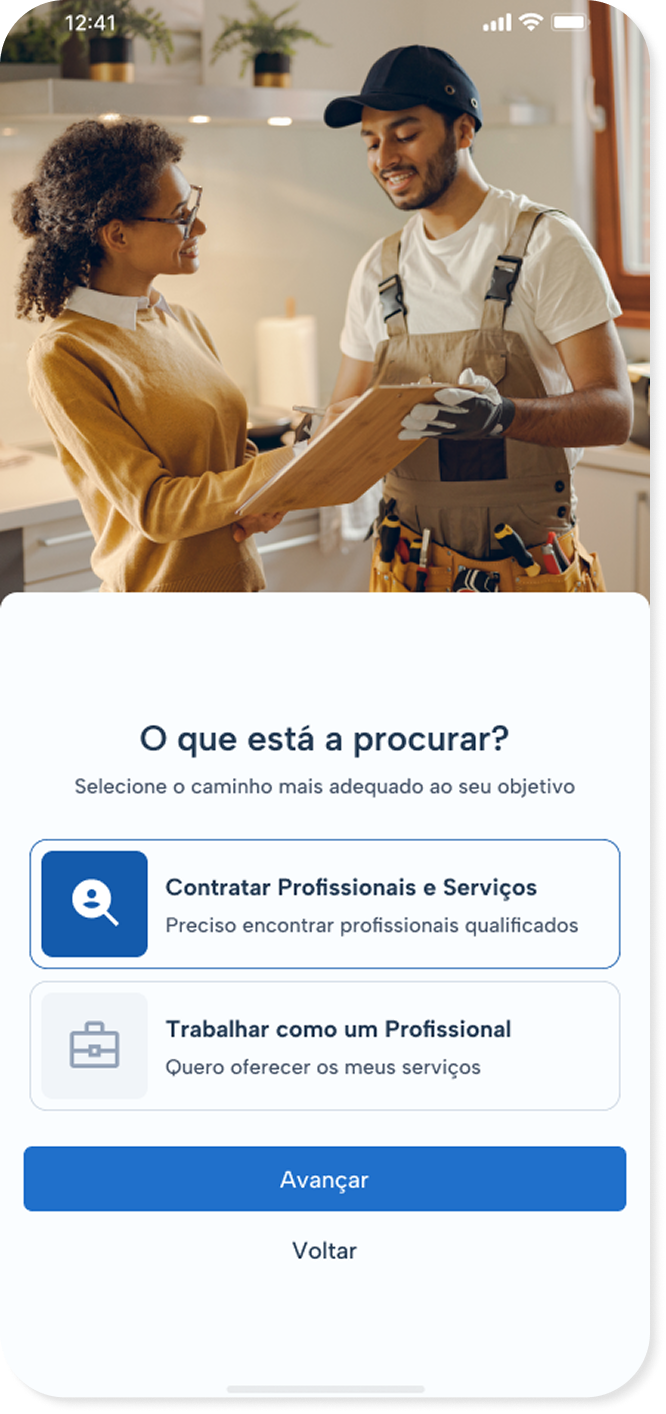
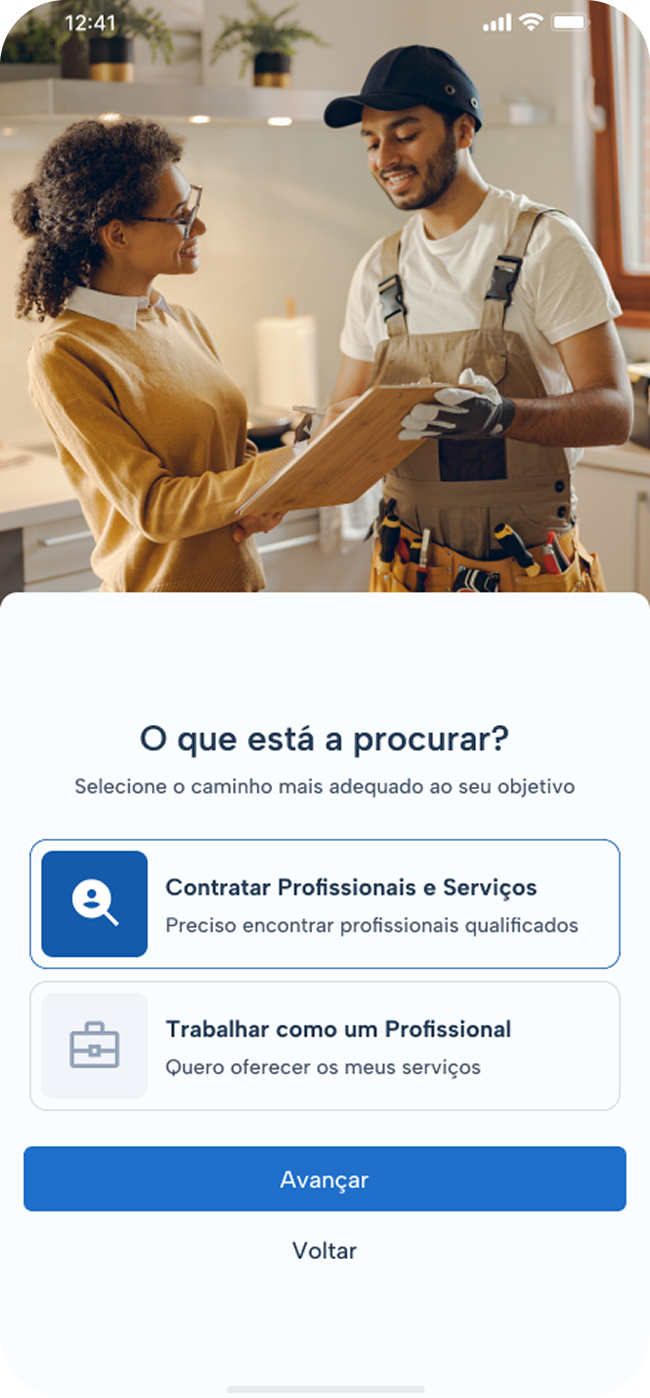
att Chris project

diff --git a/client/pages/projects/FalaComAChris.tsx b/client/pages/projects/FalaComAChris.tsx
@@ -12,13 +12,14 @@ export default function FalaComAChris() {
         <div>
           <h3 className="ttext-xs uppercase pb-4 tracking-widest text-[#3b82f6]">O Desafio</h3>
           <p className="text-white/70 leading-relaxed">
-            Criar uma plataforma MVP que conecte contratantes e profissionais qualificados na região de Grande Lisboa, focada em agilidade e confiança.
+            Criar uma Aplicativo MVP que conecte contratantes e profissionais qualificados na região de Portugal, focada em agilidade e confiança.
           </p>
         </div>
+
         <div>
           <h3 className="text-xs uppercase pb-4 tracking-widest text-[#3b82f6]">O Resultado</h3>
           <p className="text-white/70 leading-relaxed">
-            Um aplicativo com interfaces intuitivas, com fluxo de usuário otimizado, com identidade visual competitiva e landing page de captação de leads.
+            Um aplicativo com interfaces intuitivas, com fluxo de usuário otimizado, com identidade visual competitiva e landing page pronta para captação de leads.
           </p>
         </div>
       </div>
@@ -26,58 +27,48 @@ export default function FalaComAChris() {
       <section id="projectImages" className="project-images mt-12">
         <div className="overflow-hidden shadow-2xl">
 
-          <div className="flex flex-col md:flex-row gap-y-8 rounded-3xl bg-[#2170CC]  pb-12 p-8">
-            <img src="/portfolio/ptchris/Screen1.png" alt="KODIE Academy" className="w-full h-auto max-h-auto md:max-h-[800px] object-contain" />
-            <img src="/portfolio/ptchris/Screen2.png" alt="KODIE Academy" className="w-full h-auto max-h-auto md:max-h-[800px] object-contain" />
-            <img src="/portfolio/ptchris/Screen3.png" alt="KODIE Academy" className="w-full h-auto max-h-auto md:max-h-[800px] object-contain" />
+          <img src="/portfolio/ptchris/BannerChris.jpg" alt="Chris website" className="w-full h-auto" />
+
+          <div className="flex flex-col gap-4 items-center justify-center w-full px-12 py-24 bg-white">
+            <img src="/portfolio/ptchris/Chris_BrandDesign.svg" alt="" className="w-50% h-auto" />
+            {/* <div className="grid grid-cols-2 pt-12 gap-x-4 gap-y-4">
+              <img src="/portfolio/ptchris/Restauracao.png" alt="KODIE Academy" className="w-full h-auto" />
+              <img src="/portfolio/ptchris/Limpeza.png" alt="KODIE Academy" className="w-full h-auto" />
+            </div> */}
+            {/* <p className="!pb-0 text-center text-gray-400 w-full">Ensaios Fotográficos com NanoBanana</p>
+            <img src="/portfolio/ptchris/AppStore.jpg" alt="" className="w-[80%] h-auto" /> */}
           </div>
 
-          <div className="flex flex-col md:flex-wrap pt-12 md:flex-row gap-x-4 gap-y-4">
-            <p className="!pb-0 text-center text-gray-400 w-full">Fotografias geradas com NanoBanana</p>
-            <img src="/portfolio/ptchris/Restauracao.png" alt="KODIE Academy" className="w-full md:w-[49%] h-auto" />
-            <img src="/portfolio/ptchris/Limpeza.png" alt="KODIE Academy" className="w-full md:w-[49%] h-auto" />
-          </div>
-
-          <h4 className="mt-14 text-center">Logo design</h4>
-          <div className="ChrisAppIcon rounded-3xl relative w-full bg-[#2070CC] flex flex-wrap items-center justify-center ">
-            <img src="/portfolio/ptchris/AppIcon.svg" alt="KODIE Studio" className="w-64 h-auto object-contain" />
-            {/* <p className="pt-2 text-gray-400 w-full text-center !pb-0">App & Play Store icon</p> */}
-            {/* <img src="/portfolio/ptchris/logoChris-1.png" alt="KODIE Studio" className="w-64 h-auto object-contain !rounded-none" /> */}
-          </div>
-
-          <h4 className="text-center !pt-12">Guia de Estilo</h4>
-          <div className="flex flex-wrap content-center justify-center gap-2 pt-4 px-4 pb-8 p-4 bg-white rounded-3xl">
-            <h5 className="w-full pb-2 text-center font-light text-gray-400">Paleta de Cores</h5>
-            <div className="flex justify-center gap-2">
-              <div className="bg-[#2070CC] text-white h-20 rounded-xl w-40 md:w-48 flex items-center justify-center">#2070CC</div>
-              <div className="bg-[#145BAC] text-white h-20 rounded-xl w-40 md:w-48 flex items-center justify-center">#145BAC</div>
+          <div className="bg-[#2170CC] p-8 w-full grid grid-cols-1">
+            <div className="flex flex-col md:flex-row items-center pb-12 p-0 md:p-4 gap-4 md:gap-0 md:p-8">
+              <img src="/portfolio/ptchris/Screen1.png" alt="KODIE Academy" className="h-auto !rounded-3xl max-h-auto md:max-h-[650px] object-contain shadow-xl z-index-10" />
+                            <img src="/portfolio/ptchris/1Cadastro.svg" alt="KODIE Academy" 
+                            className="bg-white md:!rounded-none px-1 md:px-24 py-4 w-full h-auto max-h-auto md:max-h-[590px] object-contain z-index-10" />
+              <img src="/portfolio/ptchris/Screen2.png" alt="KODIE Academy" className="h-auto !rounded-3xl max-h-auto md:max-h-[650px] object-contain shadow-xl z-index-10" />
             </div>
-            <div className="flex justify-center gap-2">
-              <div className="bg-[#243B54] text-white h-20 rounded-xl w-40 md:w-48 flex items-center justify-center">#243B54</div>
-              <div className="bg-[#94A3B8] text-white h-20 rounded-xl w-40 md:w-48 flex items-center justify-center">#94A3B8</div>
+
+            <div className="flex flex-col md:flex-row items-center gap-y-8 rounded-3xl bg-[#2170CC] pb-12 md:p-8">
+              <img src="/portfolio/ptchris/Screen3.png" alt="KODIE Academy" className="h-auto max-h-auto !rounded-3xl md:max-h-[650px] object-contain shadow-xl" />
+              <img src="/portfolio/ptchris/2Contratacao.svg" alt="KODIE Academy" className="bg-white p-24 w-full !rounded-none h-auto max-h-auto md:max-h-[580px] object-contain" />
+              <img src="/portfolio/ptchris/Screen3.png" alt="KODIE Academy" className="h-auto max-h-auto !rounded-3xl md:max-h-[650px] object-contain shadow-xl" />
+
             </div>
-            <div className="flex flex-col w-full md:flex-row justify-center gap-8 mt-4">
-              <div className="w-full max-w-[410px]">
-                <h5 className="font-light mb-2 text-gray-400 text-center">Inputs</h5>
-                <input
-                  type="text"
-                  placeholder="Insira um texto"
-                  className="bg-[#fafafa] border border-[#94A3B8] text-black p-4 rounded-xl w-full
-                  outline-none focus:border-[#2070CC] focus:ring-1 focus:ring-[#2070CC]"
-                />
-              </div>
-              <div className="">
-                <h5 className="font-light mb-2 text-gray-400 text-center">Botões</h5>
-                <div className="flex flex-col md:flex-row gap-2 justify-center">
-                  <button className="whitespace-nowrap bg-[#2070CC] text-white px-6 py-4 rounded-lg hover:bg-[#145BAC] transition-colors duration-300">Botão Primário</button>
-                  <button className="whitespace-nowrap bg-none border border-[#2070CC] text-[#243B54] px-6 py-4 rounded-lg hover:bg-blue-50 transition-colors duration-300">Botão Secundário</button>
-                </div>
-              </div>
+
+            <div className="flex flex-col md:flex-row gap-4 rounded-3xl bg-[#2170CC] pb-12 md:p-8">
+              <img src="/portfolio/ptchris/Resumo.png" alt="KODIE Academy" className="w-full h-auto max-h-auto md:max-h-[650px] object-contain" />
+              <img src="/portfolio/ptchris/Screen4.png" alt="KODIE Academy" className="w-full h-auto max-h-auto md:max-h-[650px] object-contain" />
+              <img src="/portfolio/ptchris/Screen5.png" alt="KODIE Academy" className="w-full h-auto max-h-auto md:max-h-[650px] object-contain" />
+              <img src="/portfolio/ptchris/Screen6.png" alt="KODIE Academy" className="w-full h-auto max-h-auto md:max-h-[650px] object-contain" />
             </div>
+
+            <div className="flex flex-col md:flex-row items-center justify-center w-full gap-y-4 md:p-8">
+              <img src="/portfolio/ptchris/3Atendimento.svg" alt="KODIE Academy" className="md:block hidden bg-white p-2 md:p-24 w-full h-auto max-h-auto md:max-h-[500px] object-contain" />
+              <img src="/portfolio/ptchris/Screen7.png" alt="KODIE Academy" 
+              className="md:relative top-0 right-20 h-auto max-h-auto md:max-h-[650px] object-contain shadow-xl" />
+            </div>
+
           </div>
 
-          {/* <h4 className="mt-14 text-center">Como funciona o App</h4>
-          <UserFlow /> */}
         </div>
       </section>
 

diff --git a/client/pages/projects/KodieAcademy.tsx b/client/pages/projects/KodieAcademy.tsx
@@ -11,14 +11,12 @@ export default function KodieAcademy() {
         <div>
           <h3 className="text-xs uppercase pb-4 tracking-widest text-[#ff5c35]">O Desafio</h3>
           <p className="text-white/70 leading-relaxed">
-            Desenvolver uma campanha de lançamento da nova marca e comunicar o seu novo modelo de negócio ao mercado de educação e tecnologia latino-americano.
-          </p>
+Desenvolver uma campanha de lançamento da nova marca ecomunicar o seu novo modelo de negócio ao mercado de educaçãoe tecnologia latino-americano.          </p>
         </div>
         <div>
           <h3 className="text-xs uppercase pb-4 tracking-widest text-[#ff5c35]">O Resultado</h3>
           <p className="text-white/70 leading-relaxed">
-            Uma marca que se comunica com autoridade, landing page convertendo e materiais visuais que comunicam juventude com solidez e confiança.
-          </p>
+Uma marca que se comunica com autoridade, landing pageconvertendo e materiais visuais que comunicam juventudecom solidez e confiança.          </p>
         </div>
       </div>
 
@@ -57,10 +55,10 @@ export default function KodieAcademy() {
             <img src="/portfolio/kodie/Costas_Blusa.jpg" alt="Blusa KODIE" className="mx-auto object-cover" />
           </div>
 
-          <img src="/portfolio/kodie/OnePage_KODIE.png" alt="One page" className="w-full h-auto" />
-
           {/* Landing page ---nao trazer versao mobile */}
           <img src="/portfolio/kodie/LP_KODIE.jpg" alt="KODIE website" className="w-full h-auto" />
+
+          <img src="/portfolio/kodie/OnePage_KODIE.png" alt="One page" className="w-full h-auto" />
 
           {/* LIVE de Lançamento */}
           {/* <h4 className="mt-14">LIVE de Lançamento</h4>

diff --git a/client/pages/projects/Wiligent.tsx b/client/pages/projects/Wiligent.tsx
@@ -12,11 +12,11 @@ export default function Wiligent() {
         <h1 className="text-5xl md:text-6xl font-bold tracking-tight">Wiligent <span className="text-[#35de8a]">Miami</span></h1>
         <div>
           <h3 className="text-xs uppercase pb-4 tracking-widest text-[#35de8a]">O Desafio</h3>
-          <p className="text-white/70 leading-relaxed">Fazer o rebranding completo de um novo negócio em Miami.</p>
+          <p className="text-white/70 leading-relaxed">Fazer o rebranding completo de um negócio contábil em Miami, além de tornar a marca moderna e atrativa para o seu público alvo.</p>
         </div>
         <div>
           <h3 className="text-xs uppercase pb-4 tracking-widest text-[#35de8a]">O Resultado</h3>
-          <p className="text-white/70 leading-relaxed">Uma nova marca e identidade visual, landing page personalizada com foco em conversão.
+          <p className="text-white/70 leading-relaxed">Uma nova marca e identidade visual, landing page personalizadacom foco em conversão, que gerou +1.800 acessos em 2 semanas.
             <br /><span className="text-[#35de8a] font-light tracking-wider">+1.800 </span>acessos em 2 semanas.
           </p>
         </div>

diff --git a/client/lib/projects.ts b/client/lib/projects.ts
@@ -25,7 +25,7 @@ export const projects: Project[] = [
     id: "fala-com-a-chris",
     title: "Fala com a Chris",
     description: "Aplicativo MVP criado para conectar profissionais e contratantes em Portugal.",
-    banner: "/portfolio/ptchris/Capa.jpg",
+    banner: "/portfolio/ptchris/BannerChris.jpg",
     path: "/projetos/fala-com-a-chris",
   },
   // {
